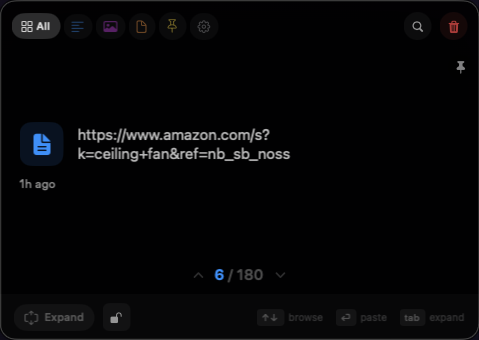
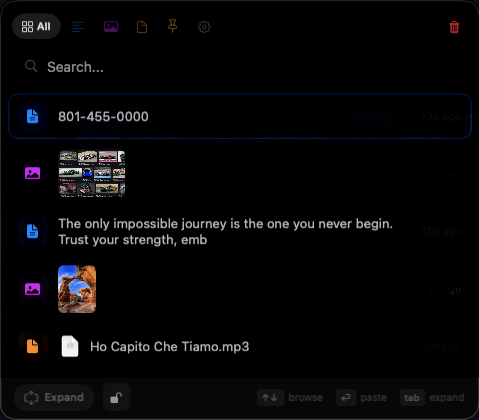
Show the expanded tray with a real mix of clips
The compact-mode capture showed a single link, which undercut the point
that everything lands in one place. This uses the expanded list instead:
a phone number, a screenshot, a note, a photo and an audio file.

Composited from two real captures because the expanded shot was taken
over a bright page and the window is translucent — the chrome and footer
come from the clean capture, and the background bleed-through is crushed
out.

diff --git a/docs/index.html b/docs/index.html
@@ -312,7 +312,7 @@
                 macOS 14+ <span>&middot;</span> Apple Silicon & Intel <span>&middot;</span> Free
             </div>
             <div class="hero-preview">
-                <img src="app-preview.png" alt="The Klipt tray showing a saved link, with browse and paste shortcuts along the bottom" width="479" height="340">
+                <img src="app-preview.png" alt="The Klipt tray holding a phone number, a screenshot, a note, a photo and an audio file" width="479" height="420">
             </div>
         </section>
 
